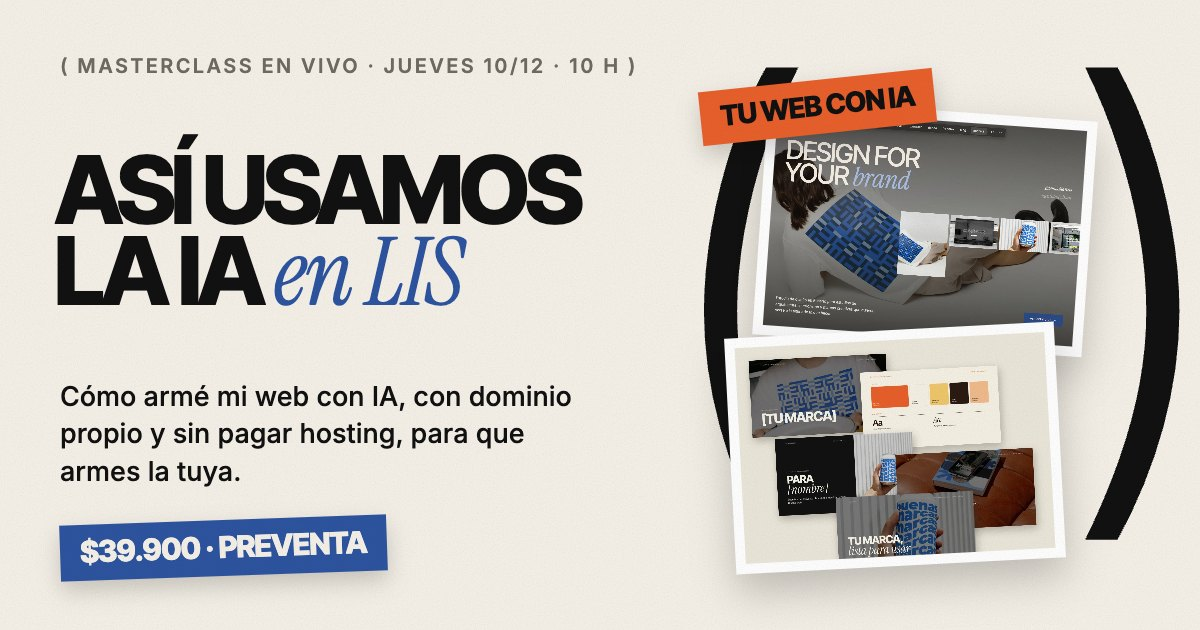
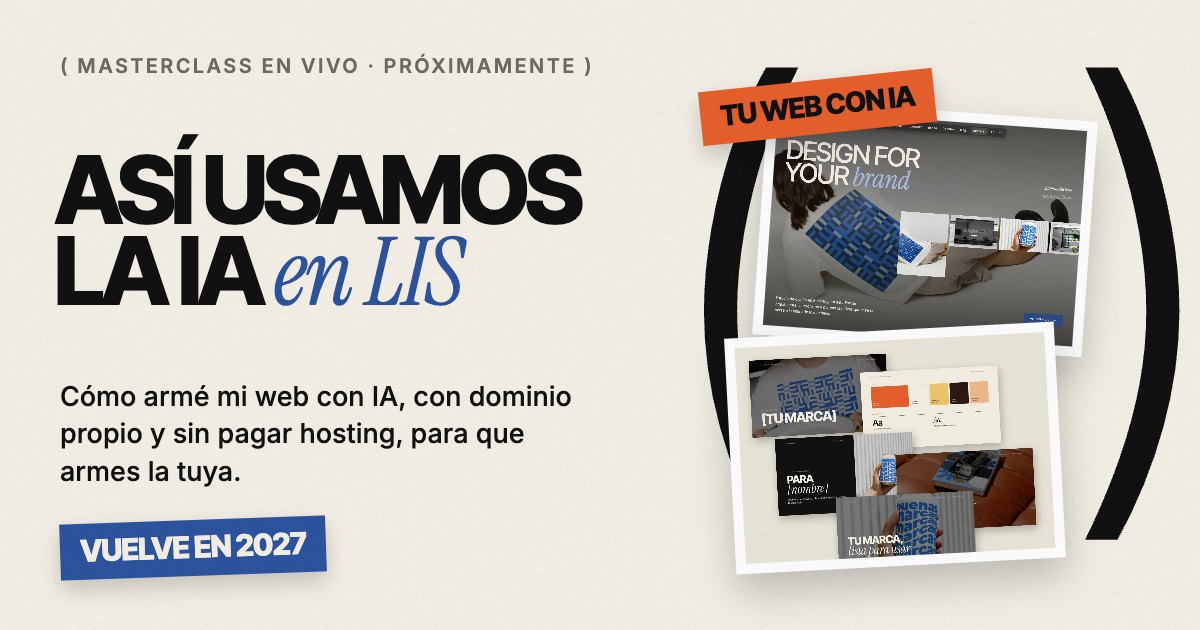
Masterclass en pausa hasta 2027: lista de espera, fuera de la tienda y sin cobro

Changed region(s): [[0.0617, 0.8143, 0.3392, 0.9349], [0.3083, 0.0905, 0.5242, 0.1206]]

diff --git a/masterclass.html b/masterclass.html
@@ -341,25 +341,25 @@
     .lang-sep { color: rgba(17,17,17,0.2); font-size: 11px; }
   </style>
   <script src="/nav.js?v=20261107b" defer></script>
-  <meta name="description" content="Masterclass en vivo por Zoom, jueves 10 de diciembre a las 10 h de Argentina: cómo armo con IA la web del estudio, con dominio propio y sin pagar hosting. Con grabación, guía paso a paso y una clase de consulta." />
+  <meta name="description" content="Masterclass Así usamos la IA en LIS: cómo armar tu web con IA, con dominio propio y sin pagar hosting. Próximamente, en 2027: sumate a la lista de espera." />
   <link rel="canonical" href="https://liscreativestudio.com/masterclass" />
   <meta name="theme-color" content="#0a0a0a" />
   <!-- hreflang -->
   <!-- Open Graph -->
   <meta property="og:title" content="Masterclass Así usamos la IA en LIS | LIS. Creative Studio" />
-  <meta property="og:description" content="Masterclass en vivo por Zoom, jueves 10 de diciembre a las 10 h de Argentina: cómo armo con IA la web del estudio, con dominio propio y sin pagar hosting. Con grabación, guía paso a paso y una clase de consulta." />
+  <meta property="og:description" content="Masterclass Así usamos la IA en LIS: cómo armar tu web con IA, con dominio propio y sin pagar hosting. Próximamente, en 2027: sumate a la lista de espera." />
   <meta property="og:url" content="https://liscreativestudio.com/masterclass" />
   <meta property="og:type" content="website" />
   <meta property="og:locale" content="es_AR" />
   <meta property="og:site_name" content="LIS. Creative Studio" />
-  <meta property="og:image" content="https://liscreativestudio.com/og-masterclass.jpg" />
+  <meta property="og:image" content="https://liscreativestudio.com/og-masterclass.jpg?v=2" />
   <meta property="og:image:width" content="1200" />
   <meta property="og:image:height" content="630" />
   <!-- Twitter Card -->
   <meta name="twitter:card" content="summary_large_image" />
   <meta name="twitter:title" content="Masterclass Así usamos la IA en LIS | LIS. Creative Studio" />
-  <meta name="twitter:description" content="Masterclass en vivo por Zoom, jueves 10 de diciembre a las 10 h de Argentina: cómo armo con IA la web del estudio, con dominio propio y sin pagar hosting. Con grabación, guía paso a paso y una clase de consulta." />
-  <meta name="twitter:image" content="https://liscreativestudio.com/og-masterclass.jpg" />
+  <meta name="twitter:description" content="Masterclass Así usamos la IA en LIS: cómo armar tu web con IA, con dominio propio y sin pagar hosting. Próximamente, en 2027: sumate a la lista de espera." />
+  <meta name="twitter:image" content="https://liscreativestudio.com/og-masterclass.jpg?v=2" />
   <!-- Sistema visual 2026 -->
   <link rel="preconnect" href="https://fonts.gstatic.com" crossorigin />
   <link rel="preload" as="style" href="https://fonts.googleapis.com/css2?family=Inter+Tight:wght@400;500;600&family=Instrument+Serif:ital@0;1&display=swap" />
@@ -806,10 +806,10 @@ body input:not([type=checkbox]):not([type=radio]):not([type=submit]):not([type=b
     <video class="hero-bg-m" src="img/tienda-movil.mp4" poster="img/tienda-movil.jpg" autoplay muted loop playsinline aria-hidden="true"></video>
     <div class="page-hero-inner">
       <div>
-        <p class="mc-lab fi fi-d1" style="margin-bottom:22px">Masterclass en vivo · jueves 10 de diciembre, 10 h</p>
+        <p class="mc-lab fi fi-d1" style="margin-bottom:22px">Masterclass en vivo · próximamente, en 2027</p>
         <h1 class="hero-title mc-title fi fi-d1"><span>Así usamos</span><span>la IA <em>en LIS</em></span></h1>
         <p class="hero-desc fi fi-d2">Cómo armé la web del estudio con IA, con mi propio dominio y sin pagar hosting. Te muestro el proceso real, de punta a punta, para que después armes la tuya.</p>
-        <a href="#reservar" class="hero-nl-link mc-cta fi fi-d2">Reservá tu lugar <span aria-hidden="true">↓</span></a>
+        <a href="#lista" class="hero-nl-link mc-cta fi fi-d2">Avisame cuando abra <span aria-hidden="true">↓</span></a>
       </div>
     </div>
   </div>
@@ -857,36 +857,20 @@ body input:not([type=checkbox]):not([type=radio]):not([type=submit]):not([type=b
     <div class="mc-cards">
       <div class="mc-card fi"><b>La clase en vivo</b><span>75 minutos por Zoom, con la grabación para volver a verla cuando la necesites.</span></div>
       <div class="mc-card fi"><b>La guía paso a paso</b><span>Un PDF con lo que necesitás, los pasos en orden y los pedidos que le hago a la IA, listos para copiar.</span></div>
-      <div class="mc-card fi"><b>Una clase de consulta de regalo</b><span>El viernes 18 de diciembre a las 10 h. Cuando ya empezaste tu web, me mandás tus dudas antes y las respondo en vivo.</span></div>
+      <div class="mc-card fi"><b>Una clase de consulta de regalo</b><span>Unos días después, cuando ya empezaste tu web, me mandás tus dudas antes y las respondo en vivo.</span></div>
     </div>
   </section>
 
   <!-- ══ CÓMO ES + PRECIO ══ -->
-  <section class="mc-wrap" id="reservar">
+  <section class="mc-wrap" id="lista">
     <div class="mc-band">
       <div>
-        <span class="mc-lab">Cuándo y cómo</span>
-        <p class="big">Jueves 10<br>de diciembre<br><em>a las 10 h</em></p>
-      </div>
-      <ul>
-        <li>10 h de Argentina y Uruguay · 14 h de España · 8 h de Colombia · 7 h de México</li>
-        <li>En vivo por Zoom, 75 minutos, con preguntas al final</li>
-        <li>Si no podés venir en vivo, te llega la grabación</li>
-        <li>El link de Zoom te llega por mail unos días antes</li>
-        <li>Clase de consulta de regalo: viernes 18 de diciembre, 10 h, con las dudas que me mandes antes</li>
-      </ul>
-    </div>
-    <div class="mc-grid2" style="margin-top:44px; align-items:end">
-      <div>
-        <span class="mc-lab">Precio de preventa</span>
-        <p class="mc-price" style="margin-top:12px">$39.900<small>o USD 49 desde afuera</small></p>
+        <span class="mc-lab">Próximamente</span>
+        <p class="big">Vuelve<br>en <em>2027</em></p>
       </div>
       <div>
-        <p class="mc-p" style="margin-top:0">Pagás con Mercado Pago y al instante te llega la confirmación con la fecha para agendar. Para pagar en dólares, escribime y te paso el link.</p>
-        <div class="mc-buy">
-          <a class="res-btn" href="/api/comprar-tienda?p=masterclass-ia" target="_blank" rel="noopener">Reservá en pesos <span aria-hidden="true">→</span></a>
-          <a class="res-btn alt" href="mailto:hello@liscreativestudio.com?subject=Masterclass%20%C2%B7%20As%C3%AD%20usamos%20la%20IA%20en%20LIS%20%C2%B7%20en%20d%C3%B3lares&body=Hola%20Orne%2C%20quiero%20reservar%20mi%20lugar%20en%20la%20masterclass%20del%2010%20de%20diciembre%20y%20pagar%20en%20d%C3%B3lares.">En dólares <span aria-hidden="true">→</span></a>
-        </div>
+        <p style="font-size:17px;line-height:1.7">La masterclass va a ser en vivo por Zoom, con la grabación, la guía paso a paso y la clase de consulta. Dejame tu mail y sos de las primeras en enterarte de la fecha, con un precio especial para la lista de espera.</p>
+        <div class="mc-buy"><a class="res-btn" href="mailto:hello@liscreativestudio.com?subject=Lista%20de%20espera%20%C2%B7%20Masterclass%20As%C3%AD%20usamos%20la%20IA%20en%20LIS&body=Hola%20Orne%2C%20quiero%20que%20me%20avises%20cuando%20abra%20la%20masterclass%20As%C3%AD%20usamos%20la%20IA%20en%20LIS." style="background:#f5f1e8 !important;color:#111 !important;border-color:#f5f1e8 !important">Avisame cuando abra <span aria-hidden="true">→</span></a></div>
       </div>
     </div>
   </section>
@@ -913,19 +897,14 @@ body input:not([type=checkbox]):not([type=radio]):not([type=submit]):not([type=b
       <details><summary>¿Tengo que pagar hosting?</summary><p>No. La web se publica en Vercel, que para una web como la tuya es gratis. Lo único que se paga es el dominio, una vez por año.</p></details>
       <details><summary>¿Necesito saber programar?</summary><p>No. La IA escribe el código y vos decidís qué querés. Yo tampoco soy programadora.</p></details>
       <details><summary>¿Sirve para armar una tienda grande?</summary><p>No es la idea. Te muestro cómo sumar a tu web un botón de pago para vender algo puntual, como un servicio, una plantilla o un taller. Para cientos de productos con stock y envíos te conviene una plataforma de tiendas.</p></details>
-      <details><summary>¿Y si no puedo ir en vivo?</summary><p>Te mando la grabación después, así la ves cuando puedas. La clase de consulta del 18 de diciembre también queda grabada.</p></details>
-      <details><summary>¿Puedo pagar desde afuera de Argentina?</summary><p>Sí. Escribime a hello@liscreativestudio.com, o tocá "En dólares", y te paso el link para pagar USD 49.</p></details>
+      <details><summary>¿Y si no puedo ir en vivo?</summary><p>Te mando la grabación después, así la ves cuando puedas. La clase de consulta también queda grabada.</p></details>
     </div>
   </section>
 
   <section class="mc-final">
-    <span class="mc-lab">Masterclass 01</span>
-    <h2 class="mc-h2" style="margin-bottom:26px">Reservá <em>tu lugar</em></h2>
-    <p class="mc-price" style="font-size:44px">$39.900<small>o USD 49 desde afuera · jueves 10 de diciembre, 10 h</small></p>
-    <div style="display:flex;justify-content:center"><div class="mc-buy">
-          <a class="res-btn" href="/api/comprar-tienda?p=masterclass-ia" target="_blank" rel="noopener">Reservá en pesos <span aria-hidden="true">→</span></a>
-          <a class="res-btn alt" href="mailto:hello@liscreativestudio.com?subject=Masterclass%20%C2%B7%20As%C3%AD%20usamos%20la%20IA%20en%20LIS%20%C2%B7%20en%20d%C3%B3lares&body=Hola%20Orne%2C%20quiero%20reservar%20mi%20lugar%20en%20la%20masterclass%20del%2010%20de%20diciembre%20y%20pagar%20en%20d%C3%B3lares.">En dólares <span aria-hidden="true">→</span></a>
-        </div></div>
+    <span class="mc-lab">Masterclass 01 · próximamente</span>
+    <h2 class="mc-h2" style="margin-bottom:26px">Sumate a la <em>lista de espera</em></h2>
+    <div style="display:flex;justify-content:center"><div class="mc-buy"><a class="res-btn" href="mailto:hello@liscreativestudio.com?subject=Lista%20de%20espera%20%C2%B7%20Masterclass%20As%C3%AD%20usamos%20la%20IA%20en%20LIS&body=Hola%20Orne%2C%20quiero%20que%20me%20avises%20cuando%20abra%20la%20masterclass%20As%C3%AD%20usamos%20la%20IA%20en%20LIS.">Avisame cuando abra <span aria-hidden="true">→</span></a></div></div>
   </section>
 
   <!-- ══ FOOTER ══ -->

diff --git a/tienda.html b/tienda.html
@@ -853,30 +853,6 @@ body input:not([type=checkbox]):not([type=radio]):not([type=submit]):not([type=b
   <p class="shop-note">Pagás con Mercado Pago y recibís al instante los enlaces de Canva y un PDF de entrega con los pasos. Las plantillas se editan en <strong>Canva</strong>, y con una cuenta gratis alcanza: al abrir el enlace tocás <strong>Usar plantilla</strong> y se crea tu propia copia. Por el lanzamiento, el Sistema completo está a $49.900. El contrato es una base para adaptar a tu trabajo y a tu país: antes de usarlo, conviene que lo revise un abogado o una abogada.</p>
 
 
-  <!-- ══ MASTERCLASES ══ -->
-  <section class="shop-section mc-section" id="masterclases">
-    <div class="shop-head">
-      <h2 class="res-title">Masterclases <em>en vivo</em></h2>
-      <p>Cada masterclass tiene su propio tema y su propio nombre: un tema por clase, cómo lo resolví en LIS y lo que podés aplicar al día siguiente. Se hacen en vivo por Zoom y quedan grabadas. Juntas, son partes del programa <em>De freelance a estudio</em>.</p>
-    </div>
-    <div class="shop-grid" style="grid-template-columns:minmax(0,1fr)">
-      <article class="p-card fi">
-        <span class="res-tag">01 · Jueves 10 de diciembre, 10 h</span>
-        <h3 class="res-title"><a href="/masterclass" style="color:inherit;text-decoration:none">Así usamos la IA <em>en LIS</em></a></h3>
-        <p class="res-desc">Cómo armé la web del estudio con IA, con mi propio dominio y sin pagar hosting. Te muestro el proceso real, de punta a punta, para que después armes la tuya.</p>
-        <ul class="p-inc"><li>Qué le pasás a la IA y qué sigue siendo tuyo</li><li>De tu diseño a una web publicada con tu nombre</li><li>Cómo sumar un botón de pago para vender algo puntual</li><li>En vivo por Zoom, 75 minutos: 10 h de Argentina, 14 h de España</li><li>Grabación, guía paso a paso y una clase de consulta el viernes 18 de diciembre</li></ul>
-        <div class="p-foot">
-          <p class="p-price">$39.900<small>o USD 49 desde afuera · precio de preventa</small></p>
-        </div>
-        <div class="p-buy">
-          <a class="res-btn" href="/masterclass">Ver la masterclass <span aria-hidden="true">→</span></a>
-          <a class="res-btn" href="/api/comprar-tienda?p=masterclass-ia" target="_blank" rel="noopener">Reservá en pesos <span aria-hidden="true">→</span></a>
-          <a class="res-btn alt" href="mailto:hello@liscreativestudio.com?subject=Masterclass%20%C2%B7%20As%C3%AD%20usamos%20la%20IA%20en%20LIS%20%C2%B7%20en%20d%C3%B3lares&body=Hola%20Orne%2C%20quiero%20reservar%20mi%20lugar%20en%20la%20masterclass%20del%2010%20de%20diciembre%20y%20pagar%20en%20d%C3%B3lares.">En dólares <span aria-hidden="true">→</span></a>
-</div>
-      </article>
-    </div>
-  </section>
-
   <!-- ══ GRATIS Y PRÓXIMAMENTE ══ -->
   <section class="steps">
     <h2 class="res-title">Para empezar <em>y para seguir</em></h2>

diff --git a/api/comprar-tienda.js b/api/comprar-tienda.js
@@ -59,13 +59,7 @@ const PRODUCTOS = {
     gracias: "/tienda-gracias-8e4c5f5d4f?p=sistema",
     volver: "/tienda#plantillas",
   },
-  // Masterclass 01 en vivo, jueves 10/12/2026 a las 10 h (Argentina). Preventa.
-  "masterclass-ia": {
-    title: "Masterclass Así usamos la IA en LIS · 10 de diciembre · LIS. Creative Studio",
-    unit_price: 39900,
-    gracias: "/masterclass-ia-reserva-3f9a1c7e2b",
-    volver: "/tienda#masterclases",
-  },
+  // Masterclass 01: en pausa desde el 11/11/2026 (vuelve en 2027). Sin producto, el link viejo lleva a /tienda.
 };
 
 export default async function handler(req, res) {
